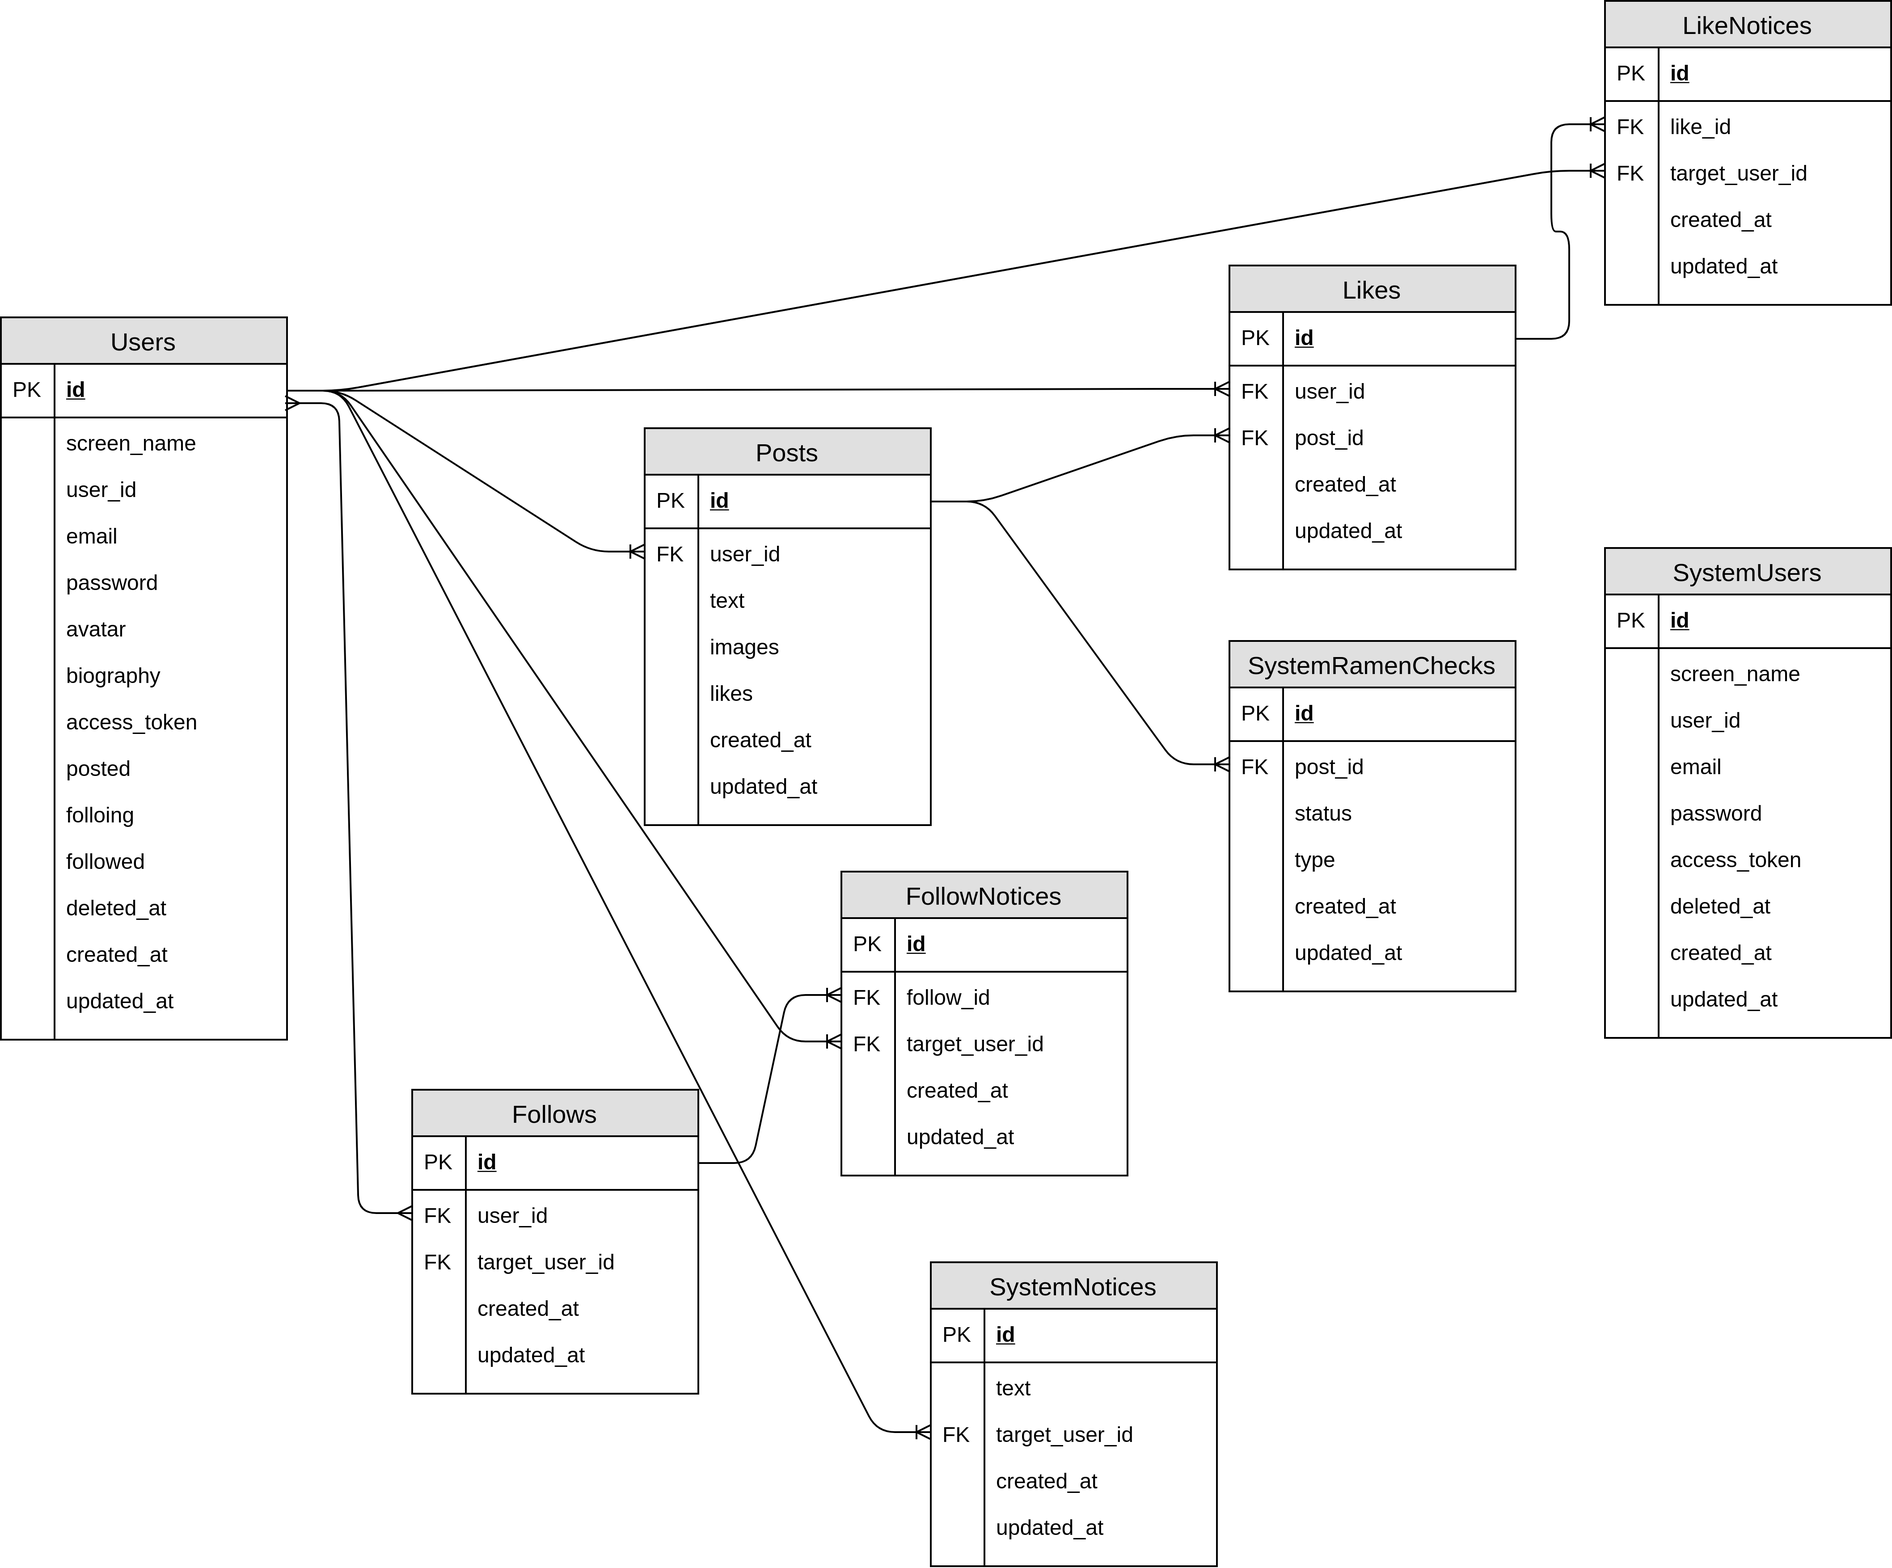
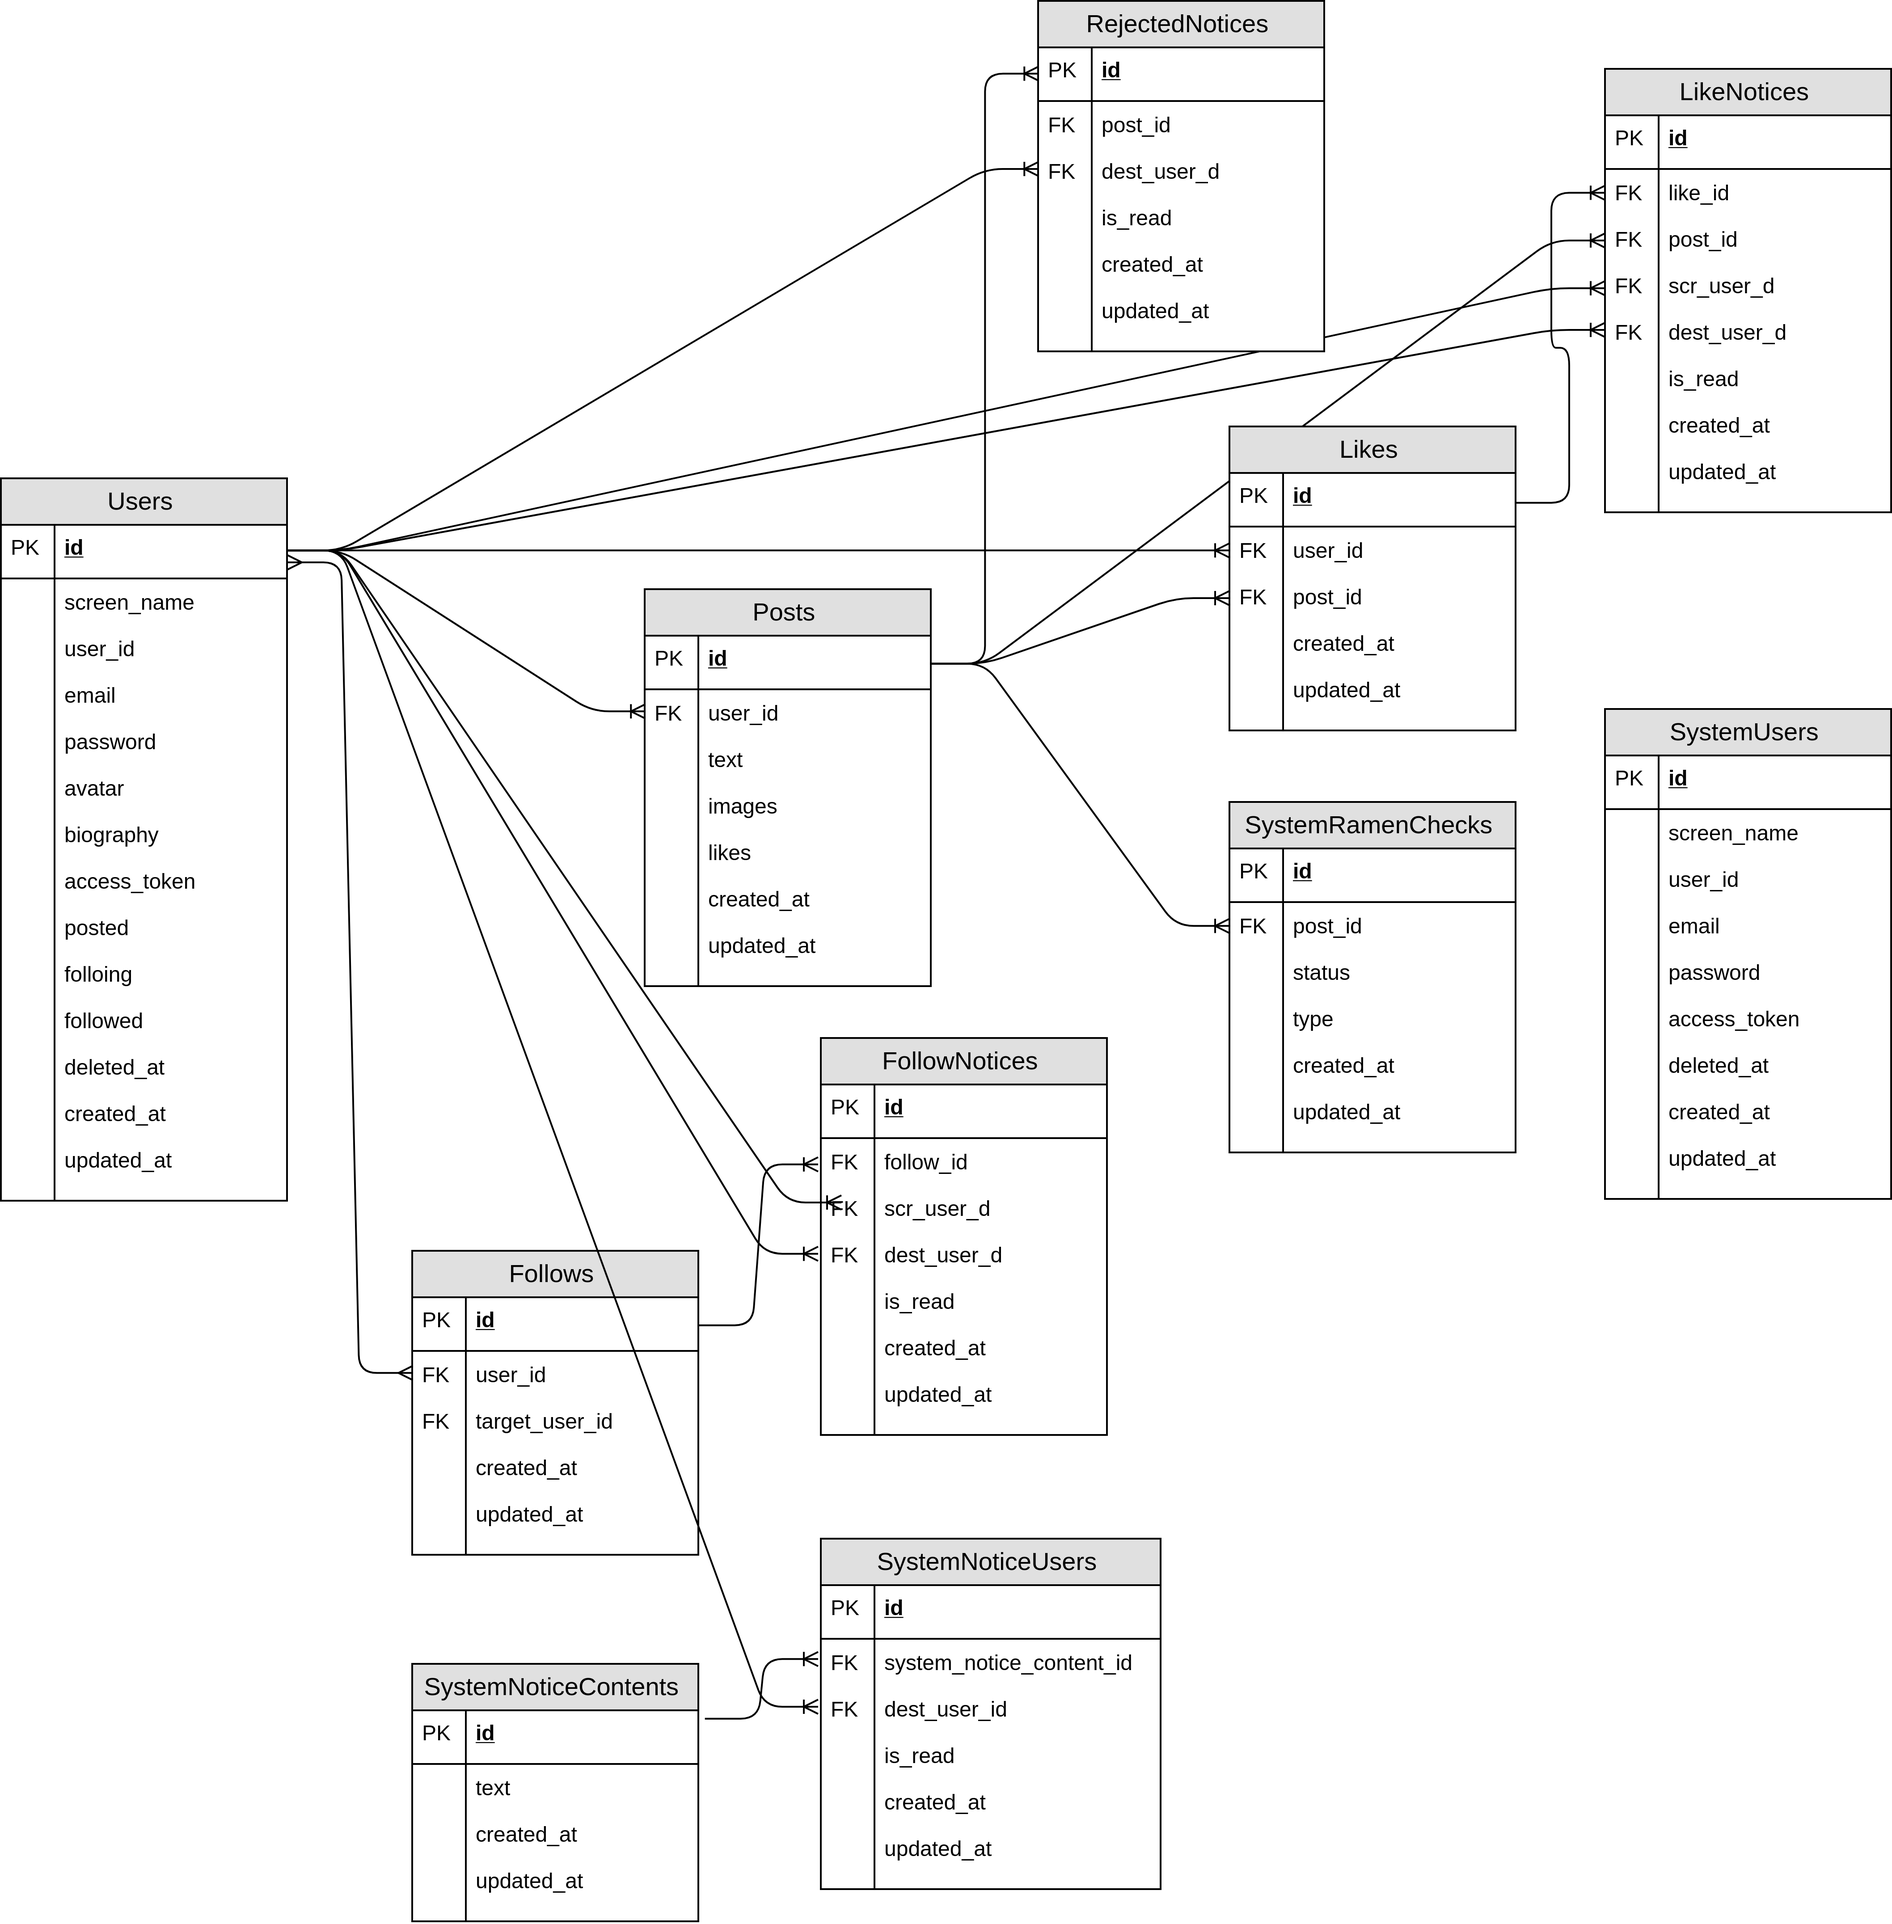
modify ER-diagram

diff --git a/db-design.md b/db-design.md
@@ -80,7 +80,7 @@
 |post_id|unsignedBigInteger|-|references|対象となる投稿のID|
 |src_user_id|unsignedBigInteger|-|references|通知の送信元ユーザーID|
 |dest_user_id|unsignedBigInteger|-|references|通知の送信先ユーザーID|
-|read|boolean|-|default(false)|すでに読み込んだ通知かどうか|
+|is_read|boolean|-|default(false)|すでに読み込んだ通知かどうか|
 |created_at|timestamps|-|-|作成された日付. Laravelによってデフォルトで生成される|
 |updated_at|timestamps|-|-|更新された日付. Laravelによってデフォルトで生成される|
 
@@ -93,18 +93,41 @@
 |follow_id|unsignedBigInteger|-|references|対象となるフォローのID|
 |src_user_id|unsignedBigInteger|-|references|通知の送信元ユーザーID|
 |dest_user_id|unsignedBigInteger|-|references|通知の送信先ユーザーID|
-|read|boolean|-|default(false)|すでに読み込んだ通知かどうか|
+|is_read|boolean|-|default(false)|すでに読み込んだ通知かどうか|
 |created_at|timestamps|-|-|作成された日付. Laravelによってデフォルトで生成される|
 |updated_at|timestamps|-|-|更新された日付. Laravelによってデフォルトで生成される|
 
-### system_notices
-- 運営からの通知
+### system_notice_contents
+- 運営からのブロードキャスト通知の本文
 
 |カラム名|型|長さ|属性|説明|
 |:--|:--|:--|:--|:--|
 |id|increments|-|primary|数値のID. ユーザーによる変更が不可|
 |text|string|256|-|送信内容|
-|read|boolean|-|default(false)|すでに読み込んだ通知かどうか|
+|created_at|timestamps|-|-|作成された日付. Laravelによってデフォルトで生成される|
+|updated_at|timestamps|-|-|更新された日付. Laravelによってデフォルトで生成される|
+
+### system_notice_users
+- 運営ブロードキャスト通知の既読管理
+
+|カラム名|型|長さ|属性|説明|
+|:--|:--|:--|:--|:--|
+|id|increments|-|primary|数値のID. ユーザーによる変更が不可|
+|system_notice_content_id|unsignedBigInteger|-|references|通知内容のID|
+|dest_user_id|unsignedBigInteger|-|references|通知の送信先ユーザーID|
+|is_read|boolean|-|default(false)|すでに読み込んだ通知かどうか|
+|created_at|timestamps|-|-|作成された日付. Laravelによってデフォルトで生成される|
+|updated_at|timestamps|-|-|更新された日付. Laravelによってデフォルトで生成される|
+
+### rejected_notice
+- システムによって投稿が削除されたことを通知
+
+|カラム名|型|長さ|属性|説明|
+|:--|:--|:--|:--|:--|
+|id|increments|-|primary|数値のID. ユーザーによる変更が不可|
+|post_id|unsignedBigInteger|references|対象となる投稿のID|
+|dest_user_id|unsignedBigInteger|-|references|通知の送信先ユーザーID|
+|is_read|boolean|-|default(false)|すでに読み込んだ通知かどうか|
 |created_at|timestamps|-|-|作成された日付. Laravelによってデフォルトで生成される|
 |updated_at|timestamps|-|-|更新された日付. Laravelによってデフォルトで生成される|
 
